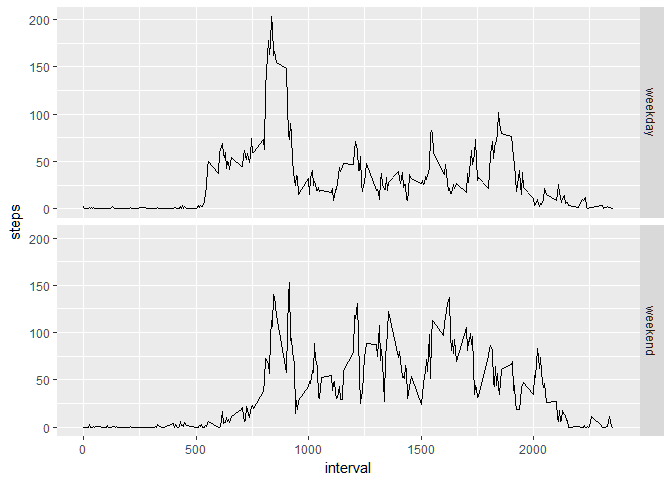
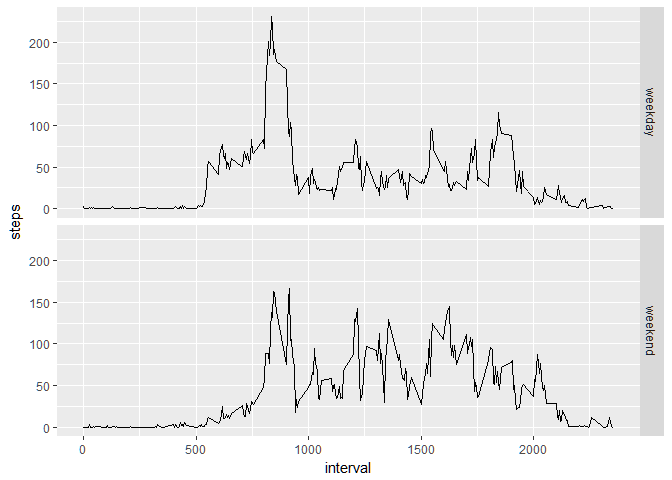
bug fixes

diff --git a/PA1_template.html b/PA1_template.html
@@ -161,32 +161,34 @@ qplot(interval, steps, data = data.frame(steps = avgPerInterval, interval = uniq
 </div>
 <div id="imputing-missing-values" class="section level2">
 <h2>Imputing missing values</h2>
-<p>We repeat our missing values calculation from the first section of the report. Then, we replace the missing step values with the average interval weight for that day:</p>
+<p>We repeat our missing values calculation from the first section of the report. Then, we replace the missing step values with the average interval weight:</p>
 <pre class="r"><code>sapply(activity, function(x) {sum(is.na(x))})</code></pre>
 <pre><code>##    steps     date interval 
 ##     2304        0        0</code></pre>
 <pre class="r"><code># fill in missing values with the date sums computed before
 naLogical &lt;- is.na(activity$steps)
-uniqueDate &lt;- unique(activity$date)
-dateNames &lt;- activity$date[naLogical]
-dateIndices &lt;- match(dateNames, uniqueDate)
+uniqueInterval &lt;- unique(activity$interval)
+intervalNames &lt;- activity$interval[naLogical]
+intervalIndices &lt;- match(intervalNames, uniqueInterval)
 newActivity &lt;- activity
 # replace NA value with the average steps per interval on that day
-newActivity$steps[naLogical] &lt;- avgPerInterval[dateIndices] / length(unique(activity$date))
+newActivity$steps[naLogical] &lt;- avgPerInterval[intervalIndices]
 sapply(newActivity, function(x) {sum(is.na(x))})</code></pre>
 <pre><code>##    steps     date interval 
 ##        0        0        0</code></pre>
-<p>Now, to observe some of the changes made by imputing values, we report the new mean and median total number of steps taken per day:</p>
 <pre class="r"><code>newStepsEachDay &lt;- tapply(newActivity$steps, newActivity$date, sum)
-mean(newStepsEachDay)</code></pre>
-<pre><code>## [1] 9354.621</code></pre>
+qplot(steps, data = data.frame(steps = newStepsEachDay), geom = &quot;histogram&quot;, binwidth = 500)</code></pre>
[1 lines of base64/hex data omitted]
+<p>Now, to observe some of the changes made by imputing values, we report the new mean and median total number of steps taken per day:</p>
+<pre class="r"><code>mean(newStepsEachDay)</code></pre>
+<pre><code>## [1] 10766.19</code></pre>
 <pre class="r"><code>median(newStepsEachDay)</code></pre>
-<pre><code>## [1] 10395</code></pre>
+<pre><code>## [1] 10766.19</code></pre>
 <pre class="r"><code>mean(stepsEachDay) - mean(newStepsEachDay)</code></pre>
-<pre><code>## [1] 1411.568</code></pre>
+<pre><code>## [1] 0</code></pre>
 <pre class="r"><code>median(stepsEachDay) - median(newStepsEachDay)</code></pre>
-<pre><code>## [1] 370</code></pre>
-<p>As we have observed, the median has been lowered slightly, while the mean has been lowered signficantly (about 10 percent).</p>
+<pre><code>## [1] -1.188679</code></pre>
+<p>As we have observed, the mean and median are almost unchanged.</p>
 </div>
 <div id="are-there-differences-in-activity-patterns-between-weekdays-and-weekends" class="section level2">
 <h2>Are there differences in activity patterns between weekdays and weekends?</h2>
@@ -205,7 +207,7 @@ weekendSeries &lt;- tapply(weekendActivity$steps, weekendActivity$interval, mean
 df &lt;- data.frame(steps = c(weekdaySeries, weekendSeries), interval = rep(unique(newActivity$interval), 2), isWeekend = as.factor(rep(c(&quot;weekday&quot;, &quot;weekend&quot;), each = 288)))
 
 qplot(interval, steps, data = df, geom = &quot;line&quot;) + facet_grid(isWeekend ~ .)</code></pre>
[2 lines of base64/hex data omitted]
 <p>The plot shows that people walk fewer steps on weekends than on weekdays, although the time series show correlation in active periods and rest periods.</p>
 </div>
 

diff --git a/PA1_template.md b/PA1_template.md
@@ -100,7 +100,7 @@ max(avgPerInterval)
 ## Imputing missing values
 
 We repeat our missing values calculation from the first section of the report.
-Then, we replace the missing step values with the average interval weight for that day:
+Then, we replace the missing step values with the average interval weight:
 
 
 ```r
@@ -115,12 +115,12 @@ sapply(activity, function(x) {sum(is.na(x))})
 ```r
 # fill in missing values with the date sums computed before
 naLogical <- is.na(activity$steps)
-uniqueDate <- unique(activity$date)
-dateNames <- activity$date[naLogical]
-dateIndices <- match(dateNames, uniqueDate)
+uniqueInterval <- unique(activity$interval)
+intervalNames <- activity$interval[naLogical]
+intervalIndices <- match(intervalNames, uniqueInterval)
 newActivity <- activity
 # replace NA value with the average steps per interval on that day
-newActivity$steps[naLogical] <- avgPerInterval[dateIndices] / length(unique(activity$date))
+newActivity$steps[naLogical] <- avgPerInterval[intervalIndices]
 sapply(newActivity, function(x) {sum(is.na(x))})
 ```
 
@@ -129,17 +129,24 @@ sapply(newActivity, function(x) {sum(is.na(x))})
 ##        0        0        0
 ```
 
+
+```r
+newStepsEachDay <- tapply(newActivity$steps, newActivity$date, sum)
+qplot(steps, data = data.frame(steps = newStepsEachDay), geom = "histogram", binwidth = 500)
+```
+
+![](PA1_template_files/figure-html/newhist-1.png)<!-- -->
+
 Now, to observe some of the changes made by imputing values, we report the new
 mean and median total number of steps taken per day:
 
 
 ```r
-newStepsEachDay <- tapply(newActivity$steps, newActivity$date, sum)
 mean(newStepsEachDay)
 ```
 
 ```
-## [1] 9354.621
+## [1] 10766.19
 ```
 
 ```r
@@ -147,7 +154,7 @@ median(newStepsEachDay)
 ```
 
 ```
-## [1] 10395
+## [1] 10766.19
 ```
 
 ```r
@@ -155,7 +162,7 @@ mean(stepsEachDay) - mean(newStepsEachDay)
 ```
 
 ```
-## [1] 1411.568
+## [1] 0
 ```
 
 ```r
@@ -163,11 +170,10 @@ median(stepsEachDay) - median(newStepsEachDay)
 ```
 
 ```
-## [1] 370
+## [1] -1.188679
 ```
 
-As we have observed, the median has been lowered slightly, while the mean has
-been lowered signficantly (about 10 percent).
+As we have observed, the mean and median are almost unchanged.
 
 
 ## Are there differences in activity patterns between weekdays and weekends?
